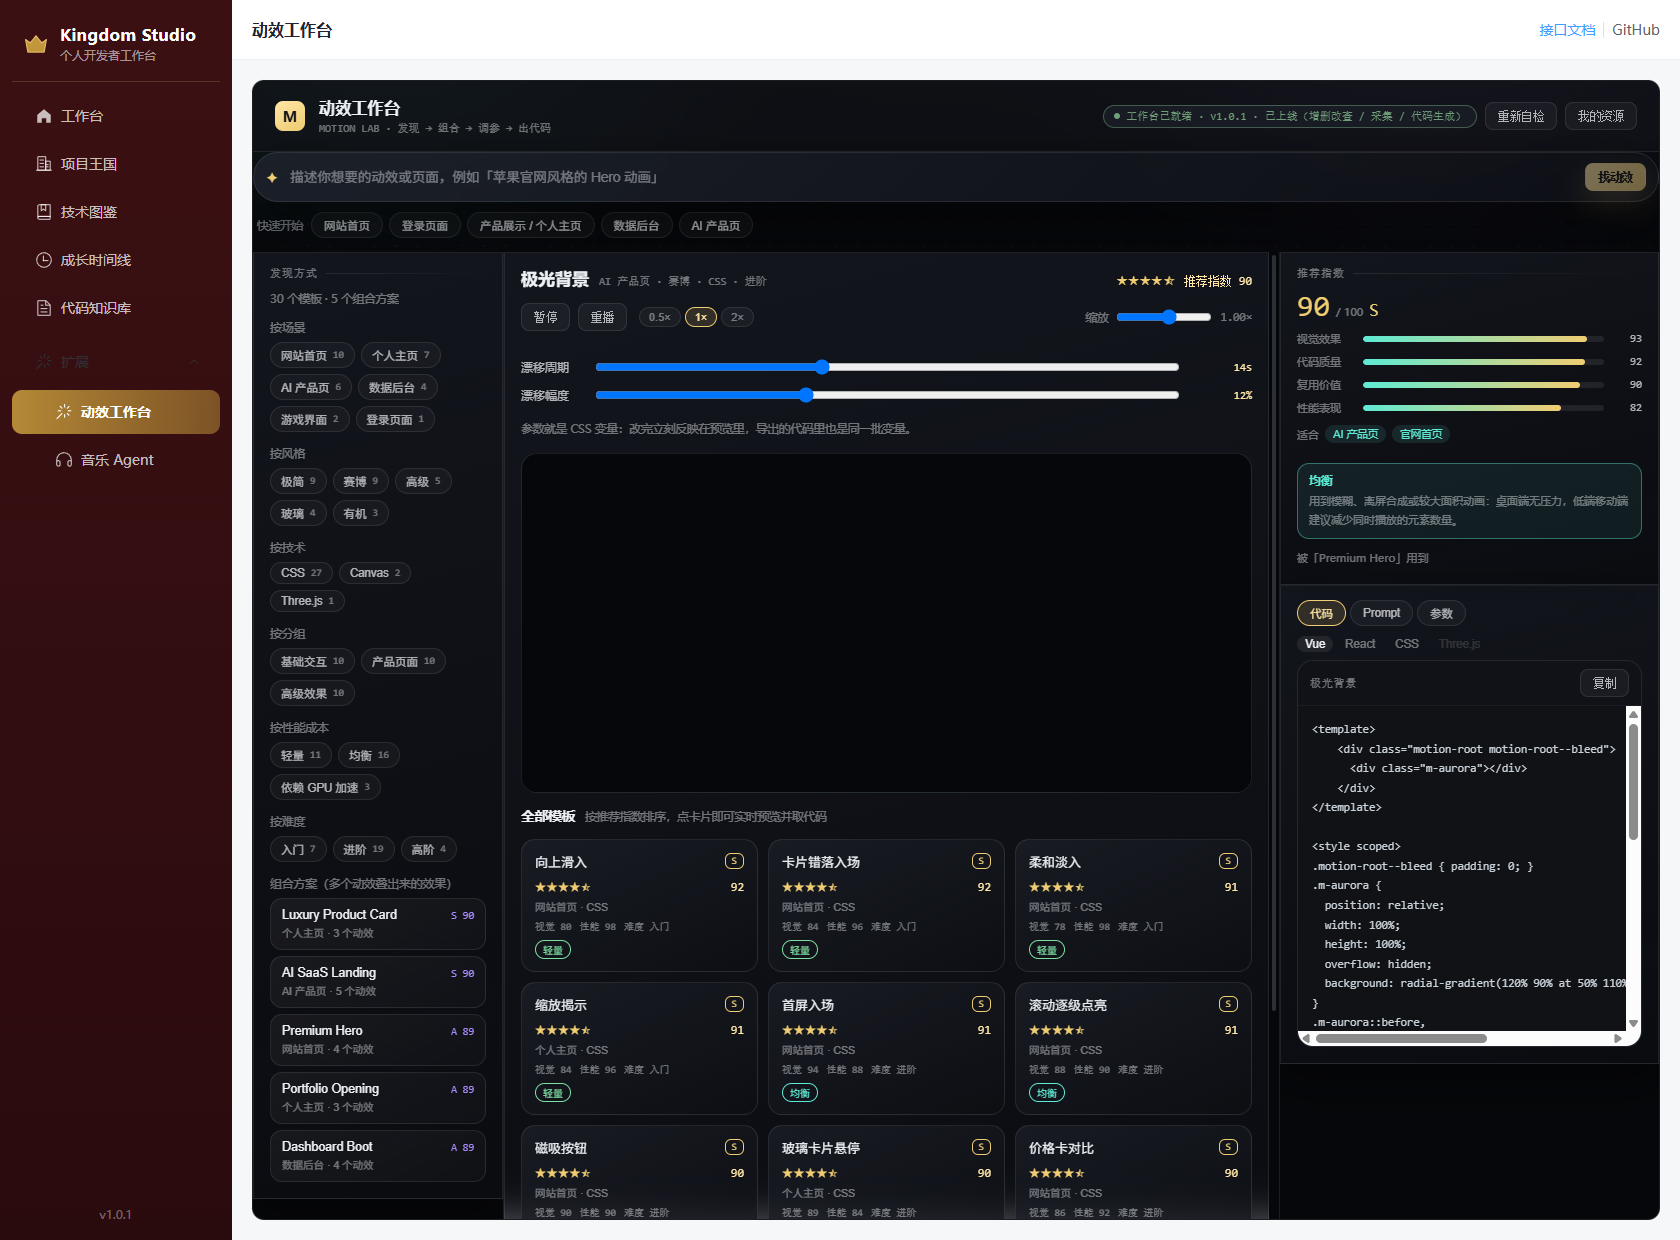
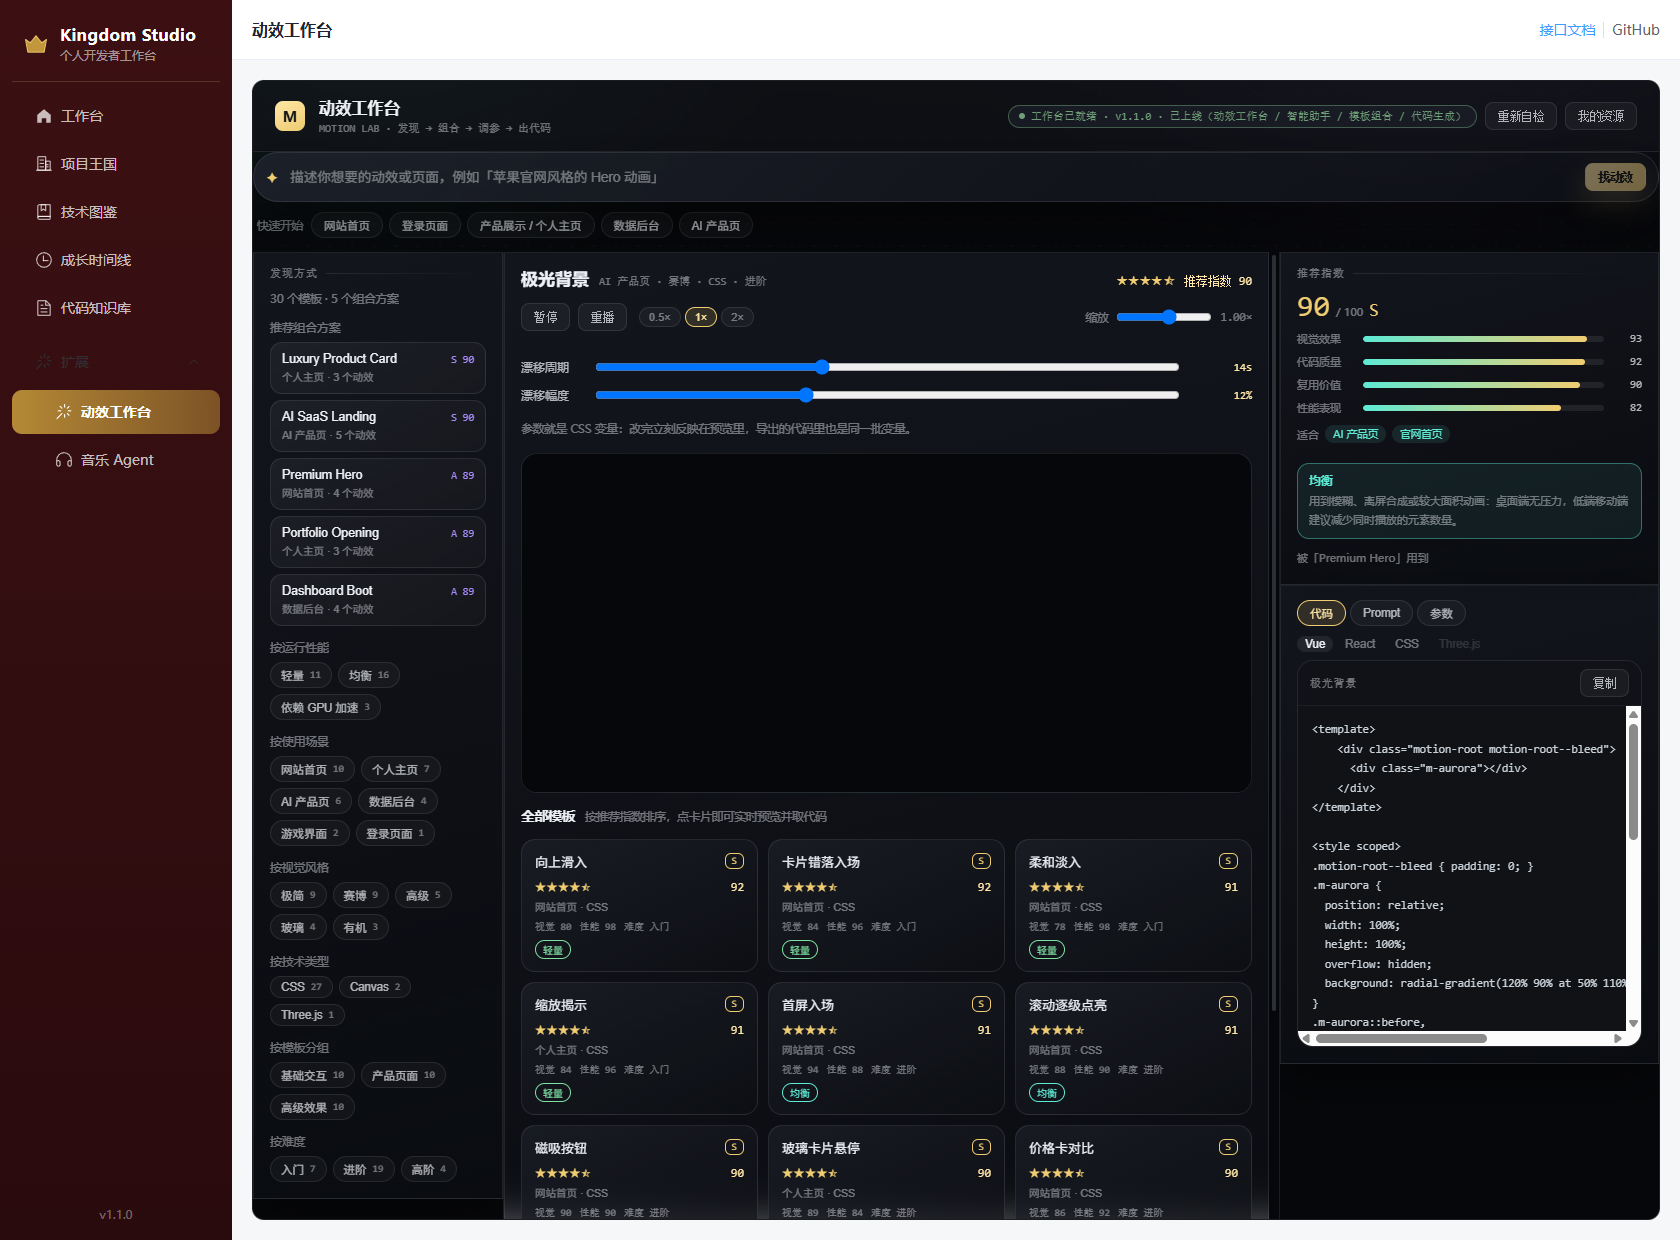
docs: align with v1.1.0 (facet order, tier wording, refreshed screenshot)
- 分面表按新顺序重排（推荐组合方案 → 按运行性能 → 按使用场景 → 按视觉风格 → 按技术类型 → 按模板分组 → 按难度），
  并说明为什么运行档位排在内容维度之前
- 运行档位口径改为正面陈述（高级视觉效果 / 依赖 GPU 加速 / 推荐桌面设备），并写明移动端怎么调
- 截图更新为 v1.1.0 的工作台（新顺序、版本号与档位徽章）

Changed region(s): [[0.1548, 0.2452, 0.2786, 0.95], [0.7738, 0.0919, 0.8048, 0.1226], [0.619, 0.0919, 0.65, 0.1226]]

diff --git a/docs/motion-workbench.md b/docs/motion-workbench.md
@@ -1,4 +1,4 @@
-# 动效工作台 / Motion Workbench（动效基因库 v1.1）
+# 动效工作台 / Motion Workbench（动效基因库 v1.1.0）
 
 > 把「收集来的动效」变成「能按需求挑出来、能调、能直接组一套」的模板库：
 > 30 个官方模板 + 5 套组合方案 + 一个模型优先、失败会如实回退的动效助手。
@@ -10,7 +10,7 @@
 前一版（见 [motion-lab.md](motion-lab.md)）解决的是**采集与管理**：动效从哪来、属于哪类、有没有重复、代码产物是什么。
 工作台解决的是**挑与用**：手上有个具体需求（"苹果官网风格的 Hero，要高级感"），能不能三步内拿到一份能跑的方案。
 
-| | 采集层（v1.0） | 工作台（v1.1） |
+| | 采集层（v1.0） | 工作台（v1.1.0） |
 | --- | --- | --- |
 | 数据 | `motion_resource`（采集来的资源） | `motion_template`（官方模板，含预览结构 + 五类产物 + 可调参数） |
 | 单位 | 一条资源 | 一个模板，或一套把多个模板串起来的**组合方案** |
@@ -28,17 +28,21 @@
 
 左栏把「怎么找到我想要的」拆成六个可单击的分面，每项后面是实时数量：
 
+左栏的顺序是**推荐 → 运行性能 → 内容维度**：先看推荐组合，再按性能成本收窄，最后才按内容细分——
+运行档位排在场景、风格前面，是因为它决定这个动效能不能用在你手上这台设备上。
+
 | 分面 | 取值 |
 | --- | --- |
-| 按场景 | 网站首页 / 个人主页 / AI 产品页 / 数据后台 / 游戏界面 / 登录页面 |
-| 按风格 | 极简 / 高级 / 赛博 / 玻璃 / 有机 |
-| 按技术 | CSS / GSAP / Framer Motion / Three.js / Canvas |
-| 按分组 | 基础交互 / 产品页面 / 高级效果（各 10 个） |
-| 按性能成本 | 轻量 / 均衡 / 依赖 GPU 加速 |
+| 推荐组合方案 | 5 套现成方案（Luxury Product Card / AI SaaS Landing / Premium Hero / Portfolio Opening / Dashboard Boot） |
+| 按运行性能 | 轻量 / 均衡 / 依赖 GPU 加速 |
+| 按使用场景 | 网站首页 / 个人主页 / AI 产品页 / 数据后台 / 游戏界面 / 登录页面 |
+| 按视觉风格 | 极简 / 高级 / 赛博 / 玻璃 / 有机 |
+| 按技术类型 | CSS / GSAP / Framer Motion / Three.js / Canvas |
+| 按模板分组 | 基础交互 / 产品页面 / 高级效果（各 10 个） |
 | 按难度 | 入门 / 进阶 / 高阶 |
 
-分面是可叠加的（场景 + 风格 + 关键词一起筛），再点一次取消。下方是 5 套**组合方案**：
-把几个模板按应用顺序串成场景级方案（如 `Premium Hero` = 背景 → 内容 → 交互），点开即按第一个成员预览，成员可逐个检查。
+分面是可叠加的（场景 + 风格 + 关键词一起筛），再点一次取消，也可以一键清除。**组合方案**把几个模板按应用顺序串成场景级方案
+（如 `Premium Hero` = 背景 → 内容 → 交互），点开即按第一个成员预览，成员可逐个检查。
 
 ## 动效助手：模型优先，但说清楚这次是谁答的
 
@@ -83,7 +87,8 @@ MOTION_LLM_MODEL=deepseek-chat
 | 均衡 | 纯 CSS 且性能子分 80–91 | 玻璃卡片悬停、极光背景（模糊 / 离屏合成 / 大面积动画） |
 | 依赖 GPU 加速 | Three.js、Canvas，或 CSS 但性能子分 < 80 | 三维场景、着色器波纹、粒子星网 |
 
-档位在三处出现：卡片上的徽章、左栏「按性能成本」筛选、右栏的运行建议（这一档的代价在哪、低端设备怎么降级）。
+档位在三处出现：卡片上的徽章、左栏「按运行性能」筛选、右栏的运行建议（适合什么设备、移动端怎么调）。
+文案一律正面陈述：轻量讲「几乎无性能代价」，均衡讲「桌面端无压力」，GPU 档讲「高级视觉效果：依赖 GPU 加速，推荐在桌面设备上查看与使用」——不写成硬件不够用。
 定位是**标注而不是限制**：30 个模板的分布是 11 轻量 / 16 均衡 / 3 依赖 GPU 加速，高级效果留在库里，用的人自己权衡。
 
 ## 参数是数据，不是代码

diff --git a/README.md b/README.md
@@ -149,7 +149,7 @@ cd ../frontend && npm install && npm run dev
 kingdom-extensions/
 ├── docs/
 │   ├── motion-lab.md              动效基因库：架构、采集、去重、代码生成、数据模型
-│   ├── motion-workbench.md        动效工作台（v1.1）：模板与组合、推荐指数、动效助手、运行档位
+│   ├── motion-workbench.md        动效工作台（v1.1.0）：模板与组合、推荐指数、动效助手、运行档位
 │   ├── music-agent.md             音乐 Agent：解析、映射引擎、时间线、回放、数据模型
 │   └── desktop-agent-protocol.md  桌面代理执行协议（WebSocket 消息与安全约束）
 ├── demo/
